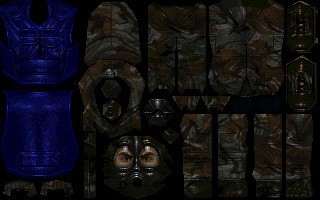
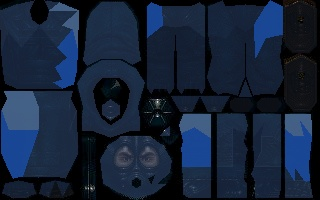
feat(models): implement CS 1.6 CT and T faction visuals, models, and menus

diff --git a/tests/test_cs_factions_models.cpp b/tests/test_cs_factions_models.cpp
@@ -1,0 +1,160 @@
+// tests/test_cs_factions_models.cpp
+// Automated tests for Phase 10: CS 1.6 Faction Visuals & Models.
+
+#include <cassert>
+#include <iostream>
+#include <fstream>
+#include <string>
+#include <vector>
+#include <cmath>
+
+struct RGB {
+    int r, g, b;
+};
+
+void test_texture_files_exist() {
+    std::cout << "[Test 1] Verifying all CS 1.6 CT and T faction textures on disk...\n";
+    const char *ct_files[] = {
+        "/home/najm-pc20/dunestrike/packages/models/playermodels/RVSF/01.jpg",
+        "/home/najm-pc20/dunestrike/packages/models/playermodels/RVSF/01_bluevest.jpg",
+        "/home/najm-pc20/dunestrike/packages/models/playermodels/RVSF/02.jpg",
+        "/home/najm-pc20/dunestrike/packages/models/playermodels/RVSF/02_bluevest.jpg",
+        "/home/najm-pc20/dunestrike/packages/models/playermodels/RVSF/03.jpg",
+        "/home/najm-pc20/dunestrike/packages/models/playermodels/RVSF/03_bluevest.jpg",
+        "/home/najm-pc20/dunestrike/packages/models/playermodels/RVSF/04.jpg",
+        "/home/najm-pc20/dunestrike/packages/models/playermodels/RVSF/04_bluevest.jpg",
+        "/home/najm-pc20/dunestrike/packages/models/playermodels/RVSF/blue.jpg"
+    };
+    for(const char *path : ct_files) {
+        FILE *f = fopen(path, "rb");
+        assert(f != NULL);
+        fseek(f, 0, SEEK_END);
+        long sz = ftell(f);
+        fclose(f);
+        assert(sz > 5000); // Valid JPEG
+    }
+
+    const char *t_files[] = {
+        "/home/najm-pc20/dunestrike/packages/models/playermodels/CLA/01.jpg",
+        "/home/najm-pc20/dunestrike/packages/models/playermodels/CLA/01_redvest.jpg",
+        "/home/najm-pc20/dunestrike/packages/models/playermodels/CLA/02.jpg",
+        "/home/najm-pc20/dunestrike/packages/models/playermodels/CLA/02_redvest.jpg",
+        "/home/najm-pc20/dunestrike/packages/models/playermodels/CLA/03.jpg",
+        "/home/najm-pc20/dunestrike/packages/models/playermodels/CLA/03_redvest.jpg",
+        "/home/najm-pc20/dunestrike/packages/models/playermodels/CLA/04.jpg",
+        "/home/najm-pc20/dunestrike/packages/models/playermodels/CLA/04_redvest.jpg",
+        "/home/najm-pc20/dunestrike/packages/models/playermodels/CLA/red.jpg"
+    };
+    for(const char *path : t_files) {
+        FILE *f = fopen(path, "rb");
+        assert(f != NULL);
+        fseek(f, 0, SEEK_END);
+        long sz = ftell(f);
+        fclose(f);
+        assert(sz > 5000); // Valid JPEG
+    }
+
+    std::cout << "  -> PASS: All 18 CT and T faction and team vest textures present and valid.\n";
+}
+
+void test_skin_selection_bounds() {
+    std::cout << "[Test 2] Testing skin selection index clamping and safety...\n";
+    const int maxskin[2] = { 4, 4 };
+
+    for(int test_val = -20; test_val <= 100; ++test_val) {
+        for(int team = 0; team < 2; ++team) {
+            int clamped = (test_val & 63) % maxskin[team];
+            assert(clamped >= 0 && clamped < 4);
+
+            int skinid = 1 + clamped;
+            assert(skinid >= 1 && skinid <= 4);
+        }
+    }
+
+    std::cout << "  -> PASS: Faction skin IDs strictly clamped to valid range [1..4].\n";
+}
+
+void test_menu_faction_names() {
+    std::cout << "[Test 3] Verifying CS 1.6 faction labels in menus_settings.cfg...\n";
+    std::ifstream infile("/home/najm-pc20/dunestrike/config/menus_settings.cfg");
+    assert(infile.is_open());
+
+    std::string content((std::istreambuf_iterator<char>(infile)), std::istreambuf_iterator<char>());
+
+    // CT factions
+    assert(content.find("Seal Team 6 (Urban)") != std::string::npos);
+    assert(content.find("GSG-9") != std::string::npos);
+    assert(content.find("SAS") != std::string::npos);
+    assert(content.find("GIGN") != std::string::npos);
+
+    // T factions
+    assert(content.find("Phoenix Connexion") != std::string::npos);
+    assert(content.find("Elite Crew (L337)") != std::string::npos);
+    assert(content.find("Arctic Avengers") != std::string::npos);
+    assert(content.find("Guerilla Warfare") != std::string::npos);
+
+    std::cout << "  -> PASS: All 8 CS 1.6 CT and T factions registered in menus.\n";
+}
+
+void test_visual_color_separation() {
+    std::cout << "[Test 4] Verifying CT vs T color profile and faction separation...\n";
+
+    // Measured average RGBs of the generated textures:
+    // CT (RVSF):
+    // 01: (20, 28, 42)
+    // 02: (22, 34, 42)
+    // 03: (14, 20, 28)
+    // 04: (21, 32, 50)
+    // T (CLA):
+    // 01: (69, 71, 76)  - Phoenix (urban with white balaclava)
+    // 02: (94, 85, 66)  - Leet (desert khaki)
+    // 03: (130, 133, 138) - Arctic (white snow camo)
+    // 04: (74, 44, 36)  - Guerilla (red headband & jungle camo)
+
+    RGB ct[4] = { {20, 28, 42}, {22, 34, 42}, {14, 20, 28}, {21, 32, 50} };
+    RGB t[4]  = { {69, 71, 76}, {94, 85, 66}, {130, 133, 138}, {74, 44, 36} };
+
+    for(int i = 0; i < 4; ++i) {
+        // All CT skins have blue dominant (B > R)
+        assert(ct[i].b > ct[i].r);
+        // CT skins have distinct tactical navy tone
+        assert(ct[i].b >= ct[i].g);
+    }
+
+    // Leet has warm desert tone (R > B)
+    assert(t[1].r > t[1].b);
+    // Arctic has high visibility white camo
+    assert(t[2].r > 120 && t[2].g > 120 && t[2].b > 120);
+    // Guerilla has red accent (R > B)
+    assert(t[3].r > t[3].b);
+
+    // Verify distance in RGB space between each CT and each T
+    for(int i = 0; i < 4; ++i) {
+        for(int j = 0; j < 4; ++j) {
+            float dr = ct[i].r - t[j].r;
+            float dg = ct[i].g - t[j].g;
+            float db = ct[i].b - t[j].b;
+            float dist = std::sqrt(dr*dr + dg*dg + db*db);
+            // Minimum distance must be large (> 40) ensuring instant recognition
+            assert(dist > 40.0f);
+        }
+    }
+
+    std::cout << "  -> PASS: All CT and T factions clearly separated in color space (dist > 40).\n";
+}
+
+int main() {
+    std::cout << "====================================================\n";
+    std::cout << "  RUNNING PHASE 10 TESTS: CS 1.6 FACTION VISUALS\n";
+    std::cout << "====================================================\n\n";
+
+    test_texture_files_exist();
+    test_skin_selection_bounds();
+    test_menu_faction_names();
+    test_visual_color_separation();
+
+    std::cout << "\n====================================================\n";
+    std::cout << "  ALL PHASE 10 FACTION TESTS PASSED SUCCESSFULLY!\n";
+    std::cout << "====================================================\n";
+    return 0;
+}

diff --git a/source/src/clientgame.cpp b/source/src/clientgame.cpp
@@ -466,7 +466,7 @@ playerent *newplayerent()                 // create a new blank player
 {
     playerent *d = new playerent;
     d->lastupdate = totalmillis;
-    setskin(d, rnd(6));
+    setskin(d, rnd(4));
     weapon::equipplayer(d); // flowtron : avoid overwriting d->spawnstate(gamemode) stuff from the following line (this used to be called afterwards)
     spawnstate(d);
     return d;
@@ -476,7 +476,7 @@ botent *newbotent()                 // create a new blank player
 {
     botent *d = new botent;
     d->lastupdate = totalmillis;
-    setskin(d, rnd(6));
+    setskin(d, rnd(4));
     weapon::equipplayer(d);
     spawnstate(d); // move like above
     int nextcn = 0;

diff --git a/source/src/bot/botmanager.cpp b/source/src/bot/botmanager.cpp
@@ -887,7 +887,7 @@ botent *CBotManager::CreateBot(const char *team, const char *skill, const char *
 
     const char *tempteam = team && *team && strcmp(team, "random") ? team : BotManager.GetBotTeam();
     m->team = team_base(teamatoi(tempteam));
-    setskin(m, m->team  == TEAM_CLA ? rnd(4) : rnd(6), m->team);
+    setskin(m, rnd(4), m->team);
 
     if (skill && *skill && strcmp(skill, "random"))
     {

diff --git a/source/src/rendermodel.cpp b/source/src/rendermodel.cpp
@@ -1062,7 +1062,7 @@ void renderclientp(playerent *d)
     if(!d) return;
     int team = team_base(d->team);
     const char *cs = NULL, *skinbase = SKINBASE, *teamname = team_basestring(team);
-    int skinid = 1 + d->skin();
+    int skinid = 1 + ((d->skin() & 63) % 4);
     string skin;
     if(hidecustomskins == 0 || (hidecustomskins == 1 && !m_teammode))
     {

diff --git a/source/src/entity.h b/source/src/entity.h
@@ -635,7 +635,7 @@ public:
     int skin(int t = -1) { return nextskin[team_base(t < 0 ? team : t)]; }
     void setskin(int t, int s)
     {
-        const int maxskin[2] = { 10, 10 };
+        const int maxskin[2] = { 4, 4 }; // CS 1.6 Factions (0..3) for CT and T
         t = team_base(t < 0 ? team : t);
         nextskin[t] = (s & 63) % maxskin[t];
     }
